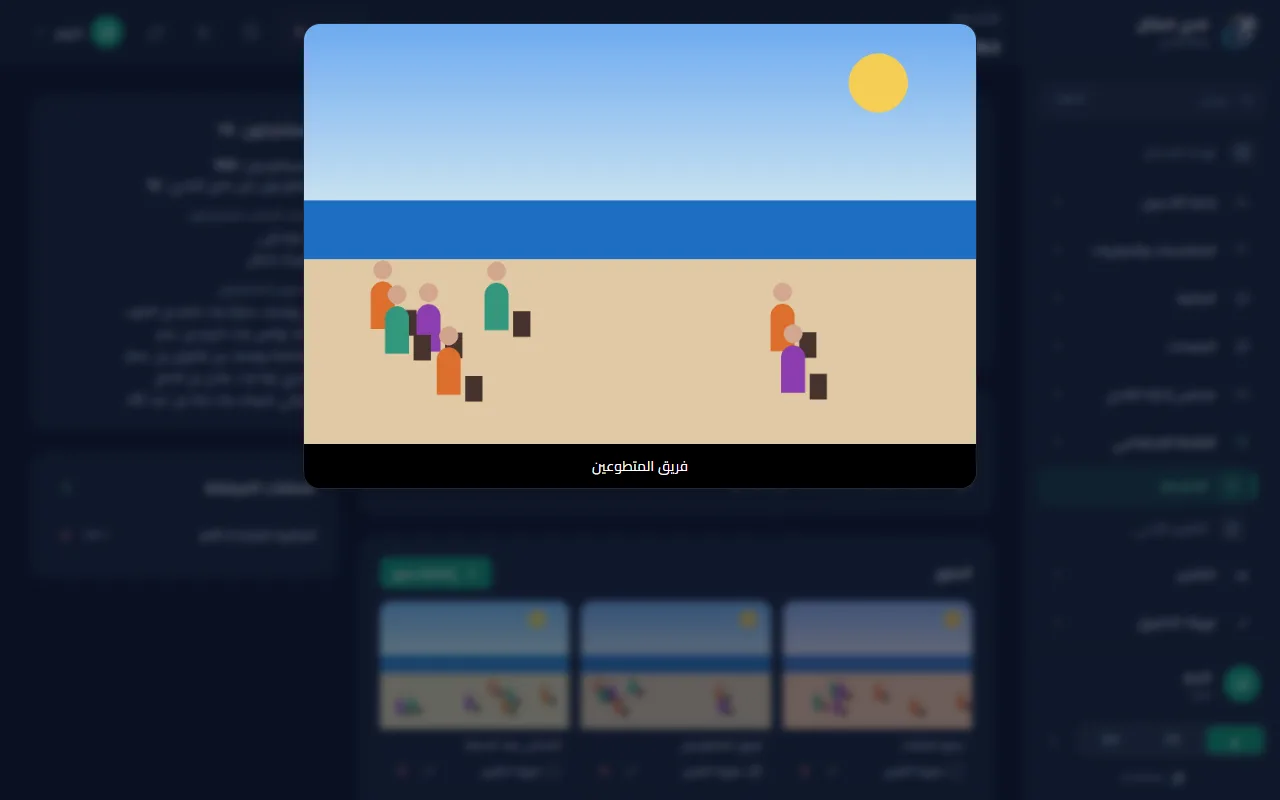
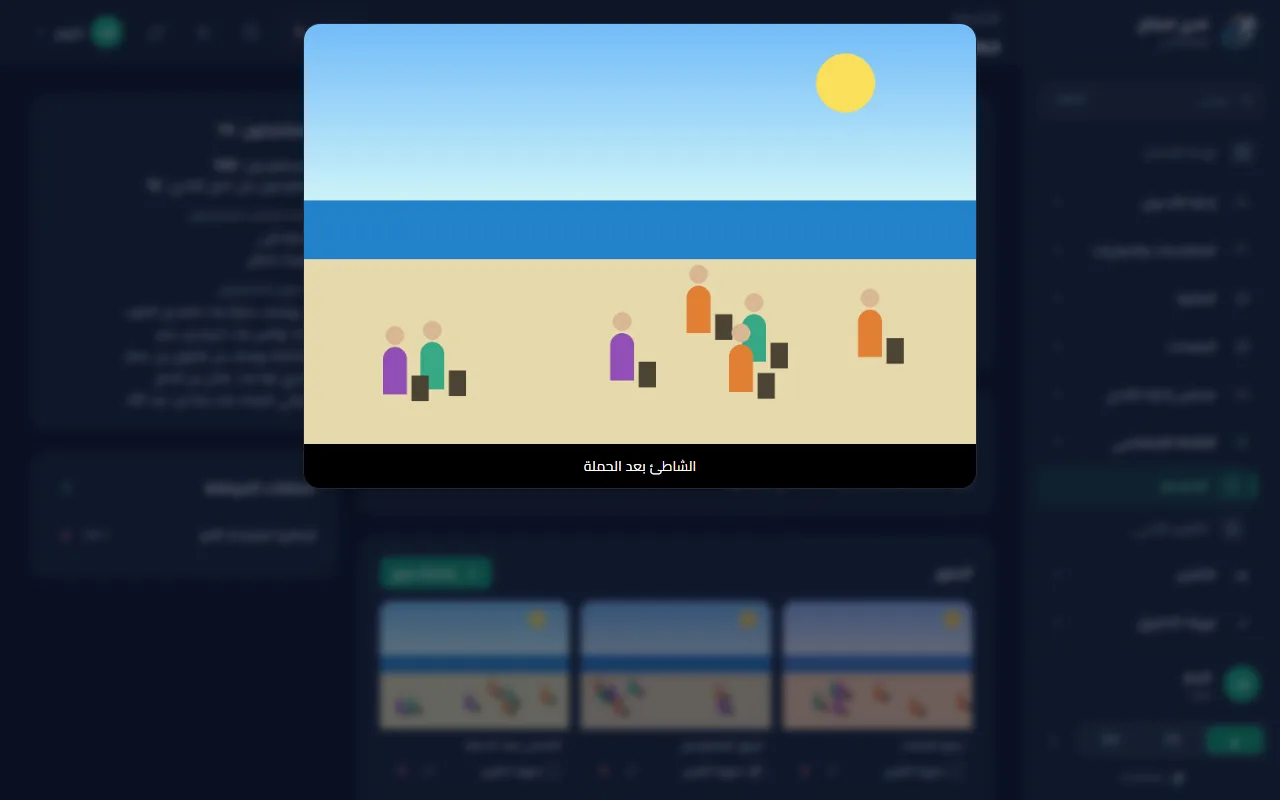
docs(help): social articles review fixes

diff --git a/resources/help/shots.js b/resources/help/shots.js
@@ -2456,7 +2456,7 @@ export default [
         url: '/activities/3',
         targets: ['act-lightbox'],
         before: async (page) => {
-            await page.locator('[data-help="act-photo-open-4"]').click();
+            await page.locator('[data-help="act-photo-open-5"]').click();
             await page.locator('[data-help="act-lightbox"] img').waitFor({ state: 'visible' });
             await page.waitForTimeout(500);
         },

diff --git a/resources/help/ar/social/activity-types.md b/resources/help/ar/social/activity-types.md
@@ -14,7 +14,7 @@ related: [social/record-activity]
 :::
 
 :::step افتح صفحة «أنواع الأنشطة»
-في الهاتف، افتح القائمة أولًا بزر ☰. في القائمة، اضغط على «أنواع الأنشطة» تحت «تهيئة التطبيق». لا تراها؟ اضغط على «تهيئة التطبيق» لتظهر. تظهر 11 نوعًا، كل نوع برقمه تحت «#».
+في الهاتف، افتح القائمة أولًا بزر ☰. في القائمة، اضغط على «أنواع الأنشطة» تحت «تهيئة التطبيق». لا تراها؟ اضغط على «تهيئة التطبيق» لتظهر. تظهر الأنواع في جدول، كل نوع برقمه تحت «#»، وعددها 11 في المثال.
 ::figure soc-activity-types-list ring=nav-activity-types
 :::
 
@@ -29,12 +29,12 @@ related: [social/record-activity]
 :::
 
 :::step غيّر «#» والاسم ثم اضغط «حفظ»
-يصير الرقم والاسم حقلين في السطر. في مثالنا اكتب 6 في خانة الرقم. ثم اضغط «حفظ» في السطر. تظهر عبارة «تم تعديل النوع». عند تساوي رقمين، يُرتَّب النوعان بحسب الاسم. «إلغاء» يغلق السطر دون تغيير.
+يصير الرقم والاسم حقلين في السطر. في مثالنا اكتب 6 في خانة الرقم. ثم اضغط «حفظ» في السطر. تظهر عبارة «تم تعديل النوع». عند تساوي رقمين، يُرتَّب النوعان بحسب الاسم. «إلغاء» يغلق السطر دون تغيير. الصورة تعرض سطر «حملة تطوعية» مثالًا، لأن النوع الجديد لم يُحفظ.
 ::figure soc-activity-types-edit ring=atype-order-edit,atype-name-edit,atype-save
 :::
 
 :::step اقرأ عمود «الأنشطة»
-عمود «الأنشطة» يعدّ أنشطة كل نوع. زر سلة المهملات عند النوع المستعمل باهت ولا يعمل. فلا تحذف نوعًا له أنشطة، وتظهر عبارة «لا يمكن حذف نوع مستعمل في أنشطة» إن حاولت ذلك.
+عمود «الأنشطة» يعدّ أنشطة كل نوع. زر سلة المهملات عند النوع المستعمل باهت ولا يمكن الضغط عليه، ما دام الرقم في عمود «الأنشطة» فوق الصفر.
 ::figure soc-activity-types-list ring=atype-count-col,atype-delete-used
 :::
 
@@ -44,5 +44,5 @@ related: [social/record-activity]
 :::
 
 :::warning
-⚠ حذف النوع نهائي ولا رجعة فيه. وإن غيّرت رقم نوع، تغيّر ترتيب فصوله في كل تقرير تطبعه بعد ذلك.
+⚠ حذف النوع نهائي ولا رجعة فيه.
 :::

diff --git a/resources/help/ar/social/photos-files.md b/resources/help/ar/social/photos-files.md
@@ -34,7 +34,7 @@ related: [social/record-activity]
 :::
 
 :::step ضع علامة على «صورة التقرير»
-تحت الصورة مربع «صورة التقرير». يقول البرنامج عنه: صورة واحدة لكل نشاط تُطبع في ملحق صور التقرير الأدبي. في المثال هو مؤشَّر على «فريق المتطوعين». إن ضعت العلامة على صورة أخرى، انتقلت العلامة إليها وزالت عن الأولى. وتظهر حول الصورة المعلَّمة حافة أوضح.
+تحت الصورة مربع «صورة التقرير». يقول البرنامج عنه: صورة واحدة لكل نشاط تُطبع في ملحق صور التقرير الأدبي. في المثال هو مؤشَّر على «فريق المتطوعين». إن ضعت العلامة على صورة أخرى، انتقلت العلامة إليها وزالت عن الأولى. والمربع المؤشَّر علامة على الصورة المعلَّمة.
 ::figure soc-photos-files-photos ring=act-report-box-4 zoom=act-report-box-4
 :::
 

diff --git a/resources/help/ar/social/record-activity.md b/resources/help/ar/social/record-activity.md
@@ -39,7 +39,7 @@ related: [social/activity-types, social/photos-files]
 :::
 
 :::step اكتب «الوصف» و«تقرير النشاط»
-«الوصف» جملة تعرّف بالنشاط. «تقرير النشاط» نص أطول. لا يُطبع هذا النص في التقرير الأدبي إلا عند اختيار «إضافة التفاصيل» عند إعداد التقرير.
+«الوصف» جملة تعرّف بالنشاط. «تقرير النشاط» نص أطول. تحت «تقرير النشاط» عبارة: «يُطبع هذا النص في التقرير الأدبي عند اختيار «إضافة التفاصيل»».
 ::figure soc-record-activity-text ring=act-description,act-report,act-report-hint
 :::
 
